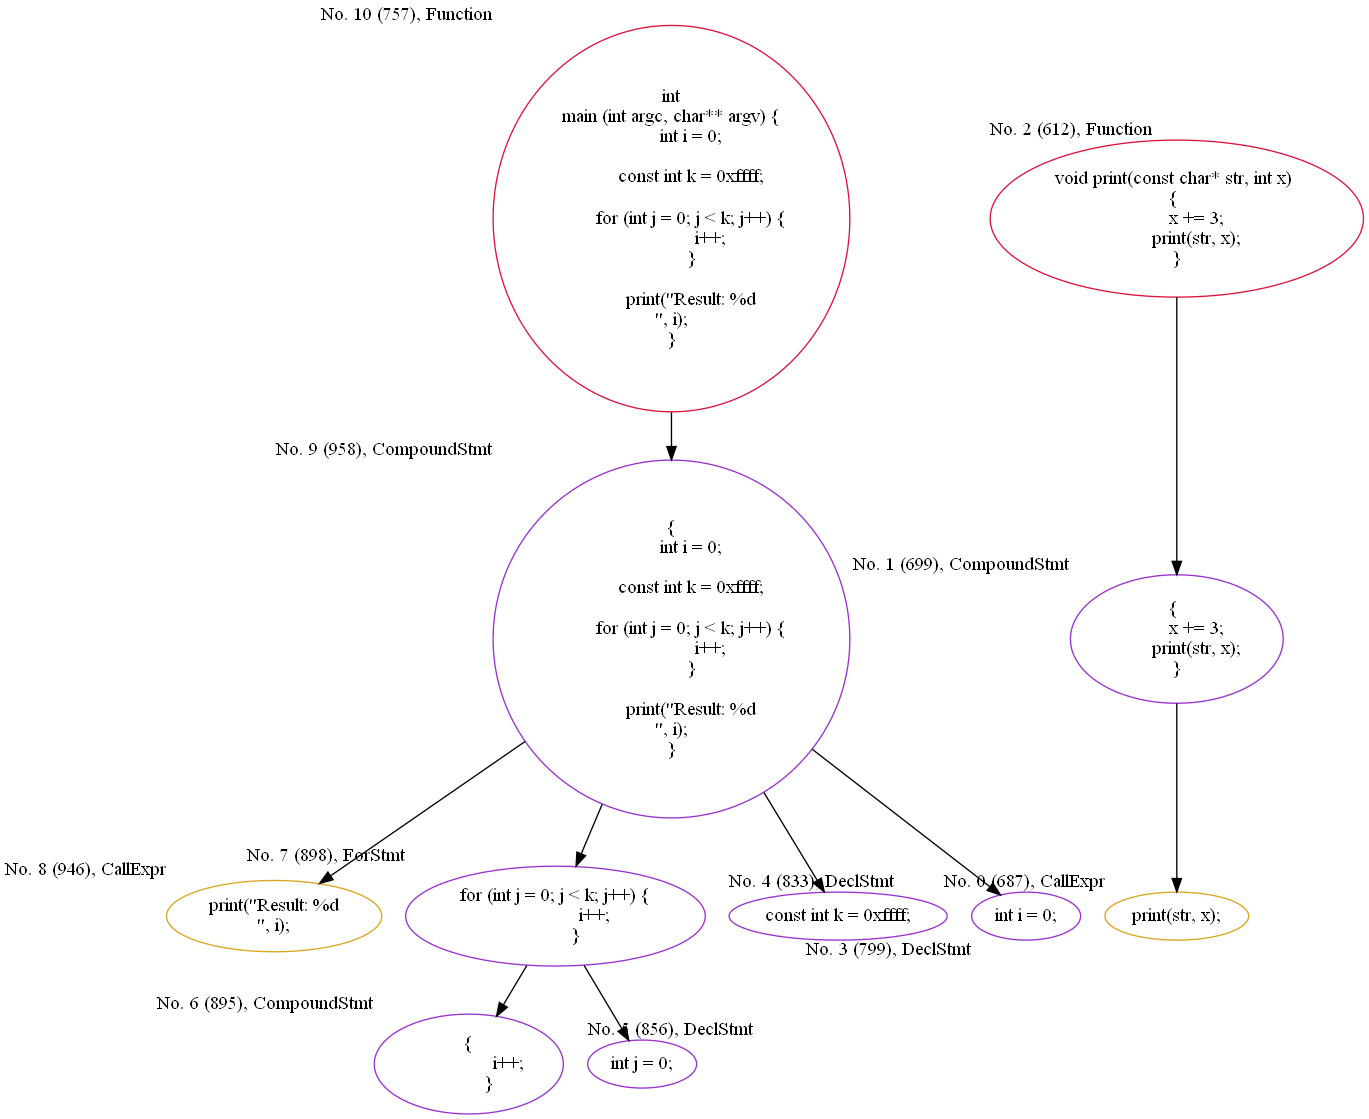
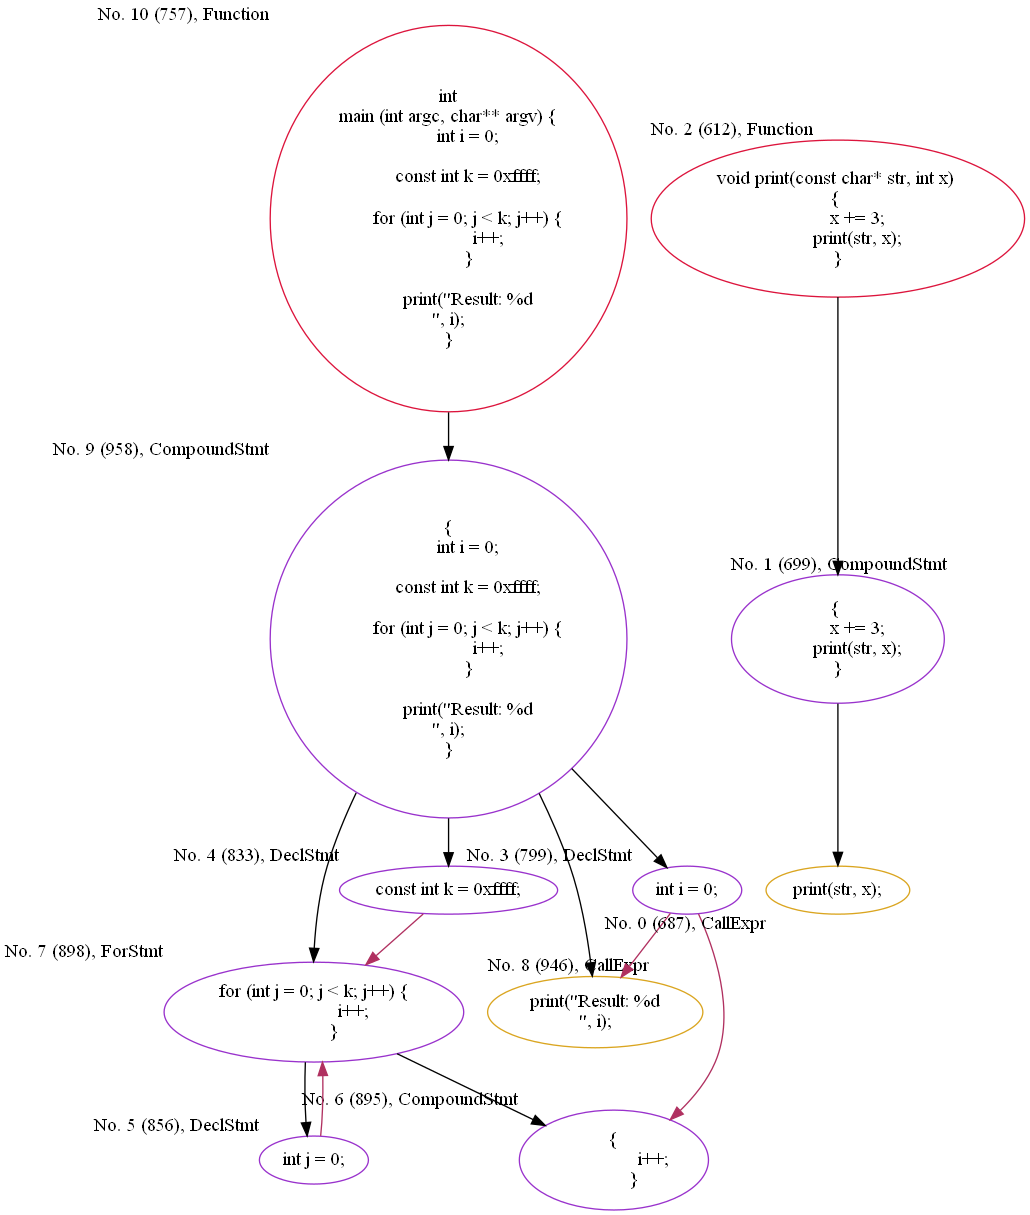
Reworked variable dependencies

diff --git a/autopie/NaiveReduction/include/Visitors.h b/autopie/NaiveReduction/include/Visitors.h
@@ -239,6 +239,7 @@ class MappingASTVisitor final : public clang::RecursiveASTVisitor<MappingASTVisi
 	NodeMappingRef nodeMapping_;
 	clang::ASTContext& astContext_;
 	NodeMappingRef declNodeMapping_;
+	std::vector<std::pair<int, int>> declReferences_;
 	std::unordered_map<std::string, bool> snippetSet_;
 	SkippedMapRef skippedNodes_ = std::make_shared<std::unordered_map<int, bool>>();
 
@@ -304,47 +305,59 @@ class MappingASTVisitor final : public clang::RecursiveASTVisitor<MappingASTVisi
 	 * If it does and the variable's declaration has been mapped, a dependency is created.\n
 	 * The dependency states that the current node is dependent on the declaring node.
 	 *
-	 * @param stmt The statement to be checked for variable usages.
+	 * @param expr The statement to be checked for variable usages.
 	 */
-	void HandleVariableInstancesInStatements(clang::Stmt* stmt)
+	void HandleVariableInstancesInExpressions(clang::Expr* expr)
 	{
-		if (stmt != nullptr && llvm::isa<clang::Expr>(stmt))
+		// The statement / expression might contain a direct variable usage, e.g. `x = 5;`
+		if (expr != nullptr && llvm::isa<clang::DeclRefExpr>(expr))
 		{
-			const auto id = stmt->getID(astContext_);
-			const auto typeName = stmt->getStmtClassName();
-			const auto codeSnippet = RangeToString(astContext_, stmt->getSourceRange());
-			const auto line = astContext_.getSourceManager().getSpellingLineNumber(stmt->getBeginLoc());
-			
-			for (auto it = stmt->child_begin(); it != stmt->child_end(); ++it)
-			{
-				const auto it_id = it->getID(astContext_);
-				const auto it_typeName = it->getStmtClassName();
-				const auto it_codeSnippet = RangeToString(astContext_, it->getSourceRange());
-				const auto it_line = astContext_.getSourceManager().getSpellingLineNumber(it->getBeginLoc());
-				
-				// The statement / expression might contain a direct variable usage, e.g. `x = 5;`
-				if (*it != nullptr && llvm::isa<clang::DeclRefExpr>(*it))
-				{
-					const auto parentID = llvm::cast<clang::DeclRefExpr>(*it)->getFoundDecl()->getID();
+			const auto parentId = llvm::cast<clang::DeclRefExpr>(expr)->getFoundDecl()->getID();
 
-					if (declNodeMapping_->find(parentID) != declNodeMapping_->end())
-					{
-						graph.InsertVariableDependency((*declNodeMapping_)[parentID], codeUnitsCount);
-					}
-				}
-				// Sometimes the variable is hidden beneath an implicit cast.
-				else if (*it != nullptr && llvm::isa<clang::ImplicitCastExpr>(*it))
+			llvm::outs() << "Found DeclRef (" <<  parentId << ", " << expr->getID(astContext_) << "): " << RangeToString(astContext_, expr->getSourceRange()) << "\n";
+			
+			declReferences_.push_back(std::pair<int, int>(parentId, expr->getID(astContext_)));
+		}
+	}
+
+	bool IsRecursiveChild(clang::Stmt* stmt, const int childId) const
+	{
+		if (stmt != nullptr)
+		{
+			for (auto& child : stmt->children())
+			{
+				if (child != nullptr && child->getID(astContext_) == childId)
 				{
-					HandleVariableInstancesInStatements(*it);
+					return true;
 				}
-				// Other times, the statement or expression might be using a variable inside an binary operator expression.
-				// e.g. `assert(x == 5);`
-				else if (*it != nullptr && llvm::isa<clang::BinaryOperator>(*it))
+
+				if (IsRecursiveChild(child, childId))
 				{
-					HandleVariableInstancesInStatements(*it);
+					return true;
 				}
 			}
 		}
+
+		return false;
+	}
+	
+	void CheckFoundDeclReferences(clang::Stmt* stmt)
+	{
+		std::vector<std::pair<int, int>> toBeKept;
+		
+		for (auto it = declReferences_.begin(); it != declReferences_.end(); ++it)
+		{
+			if (declNodeMapping_->find(it->first) != declNodeMapping_->end() && IsRecursiveChild(stmt, it->second))
+			{
+				graph.InsertVariableDependency((*declNodeMapping_)[it->first], codeUnitsCount);
+			}
+			else
+			{
+				toBeKept.push_back(*it);
+			}
+		}
+
+		declReferences_ = toBeKept;
 	}
 
 	/**
@@ -408,10 +421,9 @@ class MappingASTVisitor final : public clang::RecursiveASTVisitor<MappingASTVisi
 			const auto codeSnippet = RangeToString(astContext_, expr->getSourceRange());
 			const auto line = astContext_.getSourceManager().getSpellingLineNumber(expr->getBeginLoc());
 
-			// Look for variable usages inside the current statement.
-			// If the statement uses a previously declared variable, it should be dependent on that declaration.
-			// e.g. `if (x < 2) { ... } `should depend on `int x = 0;`
-			HandleVariableInstancesInStatements(expr);
+			out::Verb() << "Node " << codeUnitsCount << ": Type " << typeName << "\n";
+			
+			CheckFoundDeclReferences(expr);
 
 			if (InsertMapping(id, codeSnippet, line))
 			{
@@ -425,6 +437,14 @@ class MappingASTVisitor final : public clang::RecursiveASTVisitor<MappingASTVisi
 		{
 			out::Verb() << "DEBUG: Attempted to visit node " << codeUnitsCount << " (already in the mapping).\n";
 		}
+	}
+
+	void ProcessExpression(clang::Expr* expr)
+	{
+		// Look for variable usages inside the current expression.
+		// If the statement uses a previously declared variable, it should be dependent on that declaration.
+		// e.g. `if (x < 2) { ... } `should depend on `int x = 0;`
+		HandleVariableInstancesInExpressions(expr);
 	}
 
 	/**
@@ -450,16 +470,11 @@ class MappingASTVisitor final : public clang::RecursiveASTVisitor<MappingASTVisi
 				graph.InsertNodeDataForDebugging(codeUnitsCount, id, codeSnippet, typeName, "darkorchid");
 
 				HandleDeclarationsInStatements(stmt);
-				//HandleVariableInstancesInStatements(stmt);
+				CheckFoundDeclReferences(stmt);
 
 				// Apparently only statements have children.
 				for (auto it = stmt->child_begin(); it != stmt->child_end(); ++it)
 				{
-					// Look for variable usages inside the current statement.
-					// If the statement uses a previously declared variable, it should be dependent on that declaration.
-					// e.g. `if (x < 2) { ... } `should depend on `int x = 0;`
-					HandleVariableInstancesInStatements(*it);
-
 					if (*it != nullptr && nodeMapping_->find(it->getID(astContext_)) != nodeMapping_->end())
 					{
 						graph.InsertStatementDependency(codeUnitsCount, nodeMapping_->at(it->getID(astContext_)));
@@ -533,7 +548,7 @@ public:
 
 		return true;
 	}
-
+	
 	/**
 	 * Overrides the parent visit method.\n
 	 * Determines whether the node is worth visiting and creates an ID to traversal order number mapping for the node.\n
@@ -549,6 +564,21 @@ public:
 		}
 		
 		ProcessCallExpression(expr);
+
+		return true;
+	}
+
+	bool VisitExpr(clang::Expr* expr)
+	{
+		// Skip included files.
+		if (!astContext_.getSourceManager().isInMainFile(expr->getBeginLoc()))
+			//const auto loc = clang::FullSourceLoc(expr->getBeginLoc(), astContext_.getSourceManager());
+			//if (loc.isValid() && loc.isInSystemHeader())
+		{
+			return true;
+		}
+
+		ProcessExpression(expr);
 
 		return true;
 	}

diff --git a/autopie/NaiveReduction/include/DependencyGraph.h b/autopie/NaiveReduction/include/DependencyGraph.h
@@ -150,6 +150,12 @@ public:
 			it = variableEdges_.insert(std::pair<int, std::vector<int>>(parent, std::vector<int>())).first;
 		}
 
+		if (std::find(it->second.begin(), it->second.end(), child) != it->second.end())
+		{
+			// The dependency has already been made, no need to reintroduce it.
+			return;	
+		}
+		
 		it->second.push_back(child);
 
 		it = variableInverseEdges_.find(child);

diff --git a/autopie/NaiveReduction/src/Helper.cpp b/autopie/NaiveReduction/src/Helper.cpp
@@ -265,7 +265,6 @@ std::pair<bool, double> IsValid(BitMask& bitMask, DependencyGraph& dependencies)
 	{
 		if (!bitMask[i])
 		{
-			// TODO: Fix character count.
 			characterCount -= dependencies.GetNodeInfo(i).characterCount;
 			
 			if (dependencies.IsInCriterion(i))
